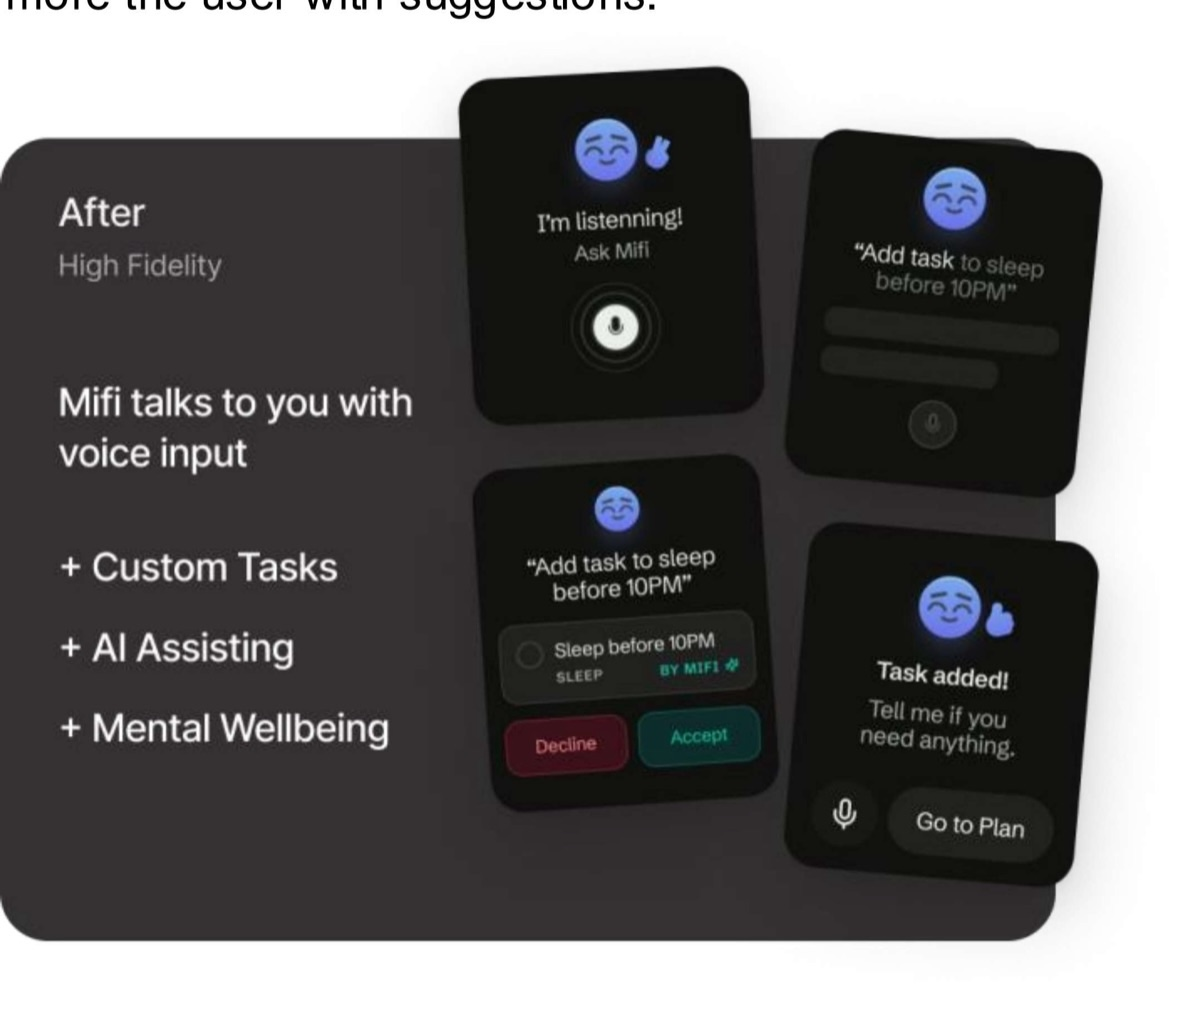
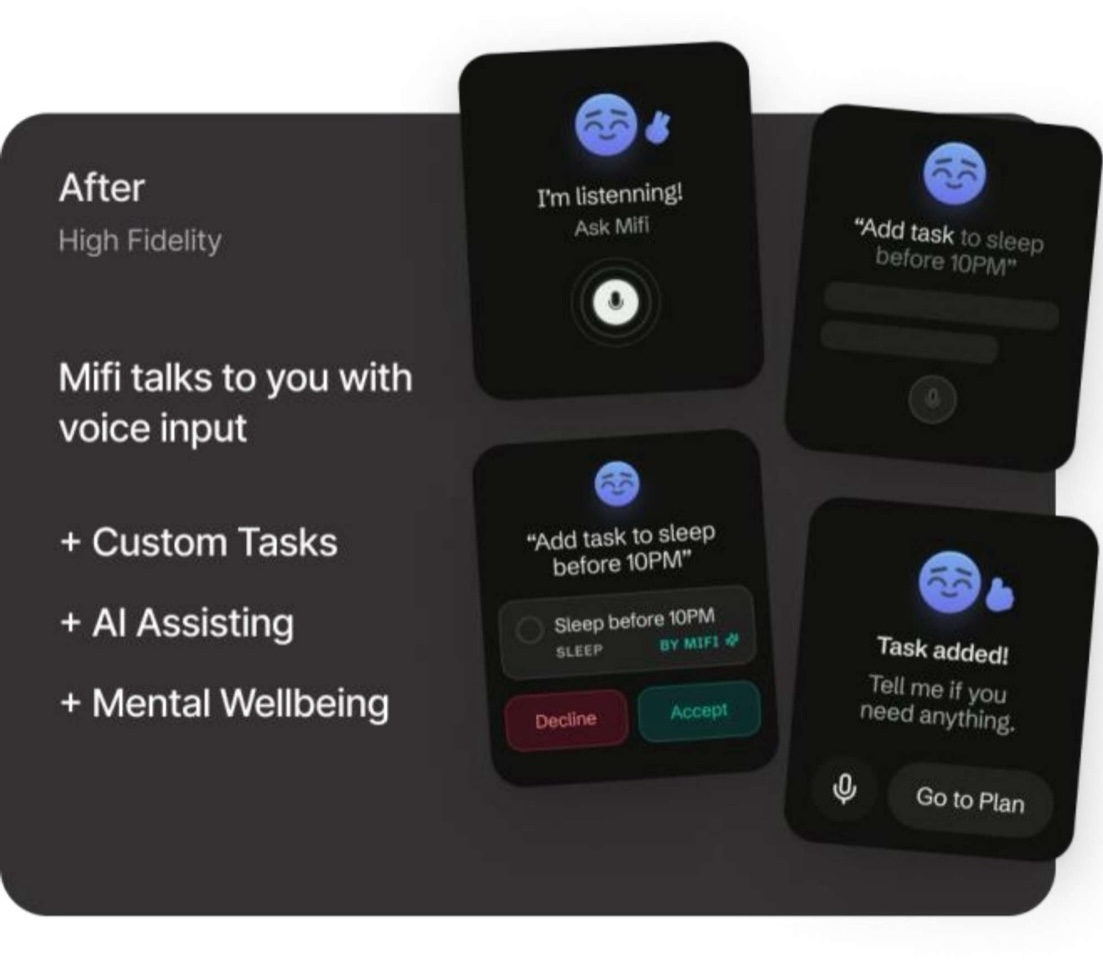
refactor: some more adjustments

diff --git a/projects/your-moneys-worth.html b/projects/your-moneys-worth.html
@@ -27,9 +27,10 @@
     </div>
   </header>
 
-  <figure>
-    <img src="../assets/img/infovis-dashboard.png" alt="Dashboard with a country list, magnet chart, scatter plot of purchasing power versus wages, and a line chart over time">
-    <figcaption>Intermediate prototype: country list, magnet chart, scatter plot and line chart, all linked. The colour scheme was refined later.</figcaption>
+  <figure class="stack">
+    <img src="../assets/img/infovis-final-top.png" width="1909" height="782" alt="Top of the final dashboard: salary and currency input, the country list with flags, and the magnet chart with the Property Price to Income, Groceries and Crime magnets active">
+    <img src="../assets/img/infovis-final-bottom.png" width="1908" height="470" alt="Bottom of the final dashboard: the year timeline, the purchasing power versus wages scatter plot, and the line chart of purchasing power from 2014 to 2024">
+    <figcaption>The final dashboard, as it runs in the live demo. Top: salary input, country list and magnet chart. Bottom: year timeline, scatter plot and line chart.</figcaption>
   </figure>
 
   <div class="prose">
@@ -47,18 +48,23 @@
     <p>The most unusual view is the <strong>magnet chart</strong>. Each magnet is an attribute, such as groceries, property price to income or climate. Each country is a point pulled towards every magnet in proportion to its normalized value for that attribute:</p>
     <p style="font-family:ui-monospace,Menlo,monospace;font-size:15px;background:var(--surface);border:1px solid var(--line);border-radius:10px;padding:14px 16px">position = Σ (valueₐ × magnetₐ) / Σ valueₐ</p>
     <p>You can drag the magnets to rearrange the forces. A D3 force simulation then recomputes every country's position, so clusters of similar countries emerge as you explore.</p>
+
+    <h2>From sketch to prototype</h2>
+    <p>The views started as design sketches and went through an intermediate prototype before reaching their final form.</p>
   </div>
 
-  <div class="figs">
-    <figure>
-      <img src="../assets/img/infovis-magnetChart.png" alt="Design sketch of the magnet chart with draggable attribute magnets">
-      <figcaption>Early design sketch of the magnet chart interaction.</figcaption>
-    </figure>
-    <figure>
-      <img src="../assets/img/infovis-lineChart.png" alt="Design sketch of the line chart">
-      <figcaption>Design sketch of the line chart.</figcaption>
-    </figure>
-  </div>
+  <figure class="sketch">
+    <img src="../assets/img/infovis-magnetChart.png" alt="Design sketch of the magnet chart with draggable attribute magnets" loading="lazy">
+    <figcaption>Early design sketch of the magnet chart interaction.</figcaption>
+  </figure>
+  <figure class="native">
+    <img src="../assets/img/infovis-lineChart.png" width="512" height="95" alt="Design sketch of the line chart showing purchasing power evolution from 2014 to 2024, with the selected country highlighted" loading="lazy">
+    <figcaption>Design sketch of the line chart: the country selected in the magnet chart is highlighted over the others.</figcaption>
+  </figure>
+  <figure>
+    <img src="../assets/img/infovis-dashboard.png" alt="Intermediate dashboard with a country list, magnet chart, scatter plot of purchasing power versus wages, and a line chart over time" loading="lazy">
+    <figcaption>Intermediate prototype: country list, magnet chart, scatter plot and line chart, already linked. The layout and colour scheme were refined later.</figcaption>
+  </figure>
 
   <div class="prose">
     <h2>Try it yourself</h2>
@@ -72,6 +78,6 @@
   </div>
 </main>
 
-<footer><div class="wrap"><span>© 2026 Duarte Marques · Data: Numbeo, OECD, Kaggle (non-commercial use)</span><span><a href="mailto:duartemarques.25@icloud.com">Email</a> · <a href="https://www.linkedin.com/in/duarte-marques-43b9701b9/">LinkedIn</a></span></div></footer>
+<footer><div class="wrap"><span>© 2026 Duarte Marques · Data: Numbeo, OECD, World Bank, Kaggle (non-commercial use)</span><span><a href="mailto:duartemarques.25@icloud.com">Email</a> · <a href="https://www.linkedin.com/in/duarte-marques-43b9701b9/">LinkedIn</a></span></div></footer>
 </body>
 </html>

diff --git a/index.html b/index.html
@@ -77,14 +77,14 @@
         <div class="body">
           <span class="meta">User-Centered Design · 2024 · Design Lead</span>
           <h3>MindFit</h3>
-          <p>A smartwatch assistant that links mental wellbeing and training. Voice-first, WCAG-checked, and rated 88.5 on the SUS by 12 users.</p>
+          <p>A smartwatch assistant that links mental wellbeing and training. Voice-first and rated 88.5 on the SUS by 12 users.</p>
           <div class="tags"><span class="tag">UX research</span><span class="tag">Wearables</span><span class="tag">Prototyping</span><span class="tag">Usability testing</span></div>
           <span class="more">Read case study →</span>
         </div>
       </a>
 
       <a class="card" href="projects/your-moneys-worth.html">
-        <div class="thumb"><img src="assets/img/infovis-dashboard.png" alt="Dashboard comparing purchasing power across OECD countries" loading="lazy"></div>
+        <div class="thumb"><img src="assets/img/infovis-final-top.png" alt="Dashboard comparing purchasing power across OECD countries, with a country list and a magnet chart" loading="lazy"></div>
         <div class="body">
           <span class="meta">Information Visualization · 2024</span>
           <h3>Your Money's Worth</h3>
@@ -106,8 +106,9 @@
         <p>Distribution ray tracer in C++ with GLSL, built in a team of 3 for the 3D Programming course. <a href="https://github.com/duartemarqs/p3d_project">Source on GitHub</a></p>
       </div>
       <div class="item">
-        <h3>Real-time 3D scene</h3>
-        <p>Interactive OpenGL application with GLSL shaders for the 3D Animation &amp; Visualization course. <a href="https://github.com/duartemarqs/ProjetoAVT">Source on GitHub</a></p>
+        <h3>Rowing boat game in OpenGL</h3>
+        <p>A real-time 3D game in OpenGL and GLSL, built in a team of 2 for the 3D Animation &amp; Visualization course. You row a boat through the gates against the clock while dodging sea creatures that get faster over time. It has 4 cameras (including a rear-view mirror), directional, point and spot lights, fog, a lens flare, fireworks particles, billboards, normal mapping, and planar shadows and reflections made with the stencil buffer. <a href="https://github.com/duartemarqs/ProjetoAVT">Source on GitHub</a></p>
+        <p style="margin-top:12px"><a class="btn" href="https://www.youtube.com/watch?v=fly1afbbJ-4" target="_blank" rel="noopener">Watch the video demo ↗</a></p>
       </div>
     </div>
   </div>
@@ -155,6 +156,7 @@
         <span class="tag">User research</span><span class="tag">Usability testing</span>
         <span class="tag">Audio production</span><span class="tag">GarageBand</span><span class="tag">Koala Sampler</span><span class="tag">Audacity</span><span class="tag">Ableton Live</span>
         <span class="tag">DJing</span><span class="tag">Serato DJ</span><span class="tag">Rekordbox</span>
+        <span class="tag">Communication</span>
       </div>
       <p style="color:var(--muted);margin-top:20px">Portuguese (native) · English (B2)</p>
     </div>
@@ -164,7 +166,7 @@
 
 <footer id="contact">
   <div class="wrap">
-    <span>Get in touch: <a href="tel:+351933014031"></a>+351 933 014 031</a> · <a href="mailto:duartemarques.25@icloud.com">duartemarques.25@icloud.com</a></span>
+    <span>Get in touch: <a href="tel:+351933014031">+351 933 014 031</a> · <a href="mailto:duartemarques.25@icloud.com">duartemarques.25@icloud.com</a></span>
     <span><a href="https://www.linkedin.com/in/duarte-marques-43b9701b9/">LinkedIn</a> · <a href="https://github.com/duartemarqs">GitHub</a> · © 2026 Duarte Marques</span>
   </div>
 </footer>

diff --git a/assets/style.css b/assets/style.css
@@ -117,6 +117,13 @@ figure { margin: 32px 0; }
 figure img, figure video { border-radius: var(--radius); border: 1px solid var(--line); background: var(--surface); width: 100%; }
 figcaption { font-size: 14.5px; color: var(--muted); margin-top: 10px; }
 .figs { display: grid; grid-template-columns: 1fr 1fr; gap: 20px; }
+.figs.same-height { grid-template-columns: 1.046fr 1.136fr; }
+figure.narrow { max-width: 380px; margin-left: auto; margin-right: auto; }
+figure.narrow figcaption { text-align: center; }
+figure.sketch { max-width: 560px; }
+figure.native { max-width: 512px; }
+figure.stack img + img { margin-top: 12px; }
+figure img[height] { height: auto; }
 .stats { display: grid; grid-template-columns: repeat(3, 1fr); gap: 16px; margin: 24px 0; }
 .stat { background: var(--surface); border: 1px solid var(--line); border-radius: var(--radius); padding: 18px; }
 .stat b { display: block; font-size: 30px; color: var(--accent); letter-spacing: -.02em; line-height: 1.1; }
@@ -131,7 +138,7 @@ figcaption { font-size: 14.5px; color: var(--muted); margin-top: 10px; }
   .hero { padding: 48px 0 32px; }
   .hero .wrap { grid-template-columns: 1fr; gap: 24px; }
   .hero .photo { width: 132px; height: 132px; order: -1; }
-  .grid, .small-list, .music, .about, .figs { grid-template-columns: minmax(0, 1fr); }
+  .grid, .small-list, .music, .about, .figs, .figs.same-height { grid-template-columns: minmax(0, 1fr); }
   .facts { grid-template-columns: 1fr 1fr; }
   .stats { grid-template-columns: 1fr; }
   section { padding: 40px 0; }

diff --git a/projects/ablevoice.html b/projects/ablevoice.html
@@ -22,6 +22,9 @@
       <div><span>When</span><strong>2025 · 6 weeks</strong></div>
       <div><span>Tools</span><strong>Paper, Wizard of Oz, Figma</strong></div>
     </div>
+    <div class="links" style="margin-top:20px">
+      <a class="btn primary" href="https://www.figma.com/design/SoyscEFQh1SjM0WoBhprAn/AbleVoice-High-Fidelity?node-id=1753-3638" target="_blank" rel="noopener">Open the Figma prototype ↗</a>
+    </div>
   </header>
 
   <figure>
@@ -51,7 +54,7 @@
     </figure>
     <figure>
       <img src="../assets/img/ablevoice-hifi.jpg" alt="High-fidelity Figma screens: listening state, correction flows and pause menu">
-      <figcaption>High-fidelity Figma flows: basic dictation, spelling a word and multi-word correction.</figcaption>
+      <figcaption>High-fidelity Figma flows: basic dictation, spelling a word and multi-word correction. <a href="https://www.figma.com/design/SoyscEFQh1SjM0WoBhprAn/AbleVoice-High-Fidelity?node-id=1753-3638" target="_blank" rel="noopener">See all screens in Figma ↗</a></figcaption>
     </figure>
   </div>
 

diff --git a/projects/mindfit.html b/projects/mindfit.html
@@ -24,7 +24,7 @@
     </div>
   </header>
 
-  <figure>
+  <figure class="narrow">
     <img src="../assets/img/mindfit-cover.jpg" alt="Smartwatch showing the Mifi assistant suggesting to sleep before 10 PM">
     <figcaption>Mifi, the assistant, suggests small, concrete actions based on your mood and training.</figcaption>
   </figure>
@@ -49,7 +49,8 @@
     </ul>
   </div>
 
-  <div class="figs">
+  <!-- column widths are proportional to each image's aspect ratio (1200/1147 and 1103/971) so both render at the same height -->
+  <div class="figs same-height">
     <figure>
       <img src="../assets/img/mindfit-menu.jpg" alt="Before and after: split menus in the paper prototype versus a unified menu in high fidelity">
       <figcaption>Navigation fix: a unified menu made the app more predictable and consistent.</figcaption>

diff --git a/projects/contextualize-mysteps.html b/projects/contextualize-mysteps.html
@@ -53,6 +53,11 @@
     </figure>
   </div>
 
+  <figure>
+    <img src="../assets/img/thesis-context-filters.jpg" width="1920" height="957" alt="Visual Query on the MySteps map with Context Filters for weather condition, cloud cover between 60 and 63% and wind gusts above 50 km/h, and the matching days listed on a timeline below" loading="lazy">
+    <figcaption>Context Filters extend the Visual Queries with weather criteria (here, cloud cover of 60–63% and wind gusts above 50 km/h). The matching days appear on the timeline and their routes on the map.</figcaption>
+  </figure>
+
   <div class="prose">
     <h2>Evaluation</h2>
     <p>I ran a user study with 17 participants on a synthetic two-year lifelog combined with real weather data.</p>
